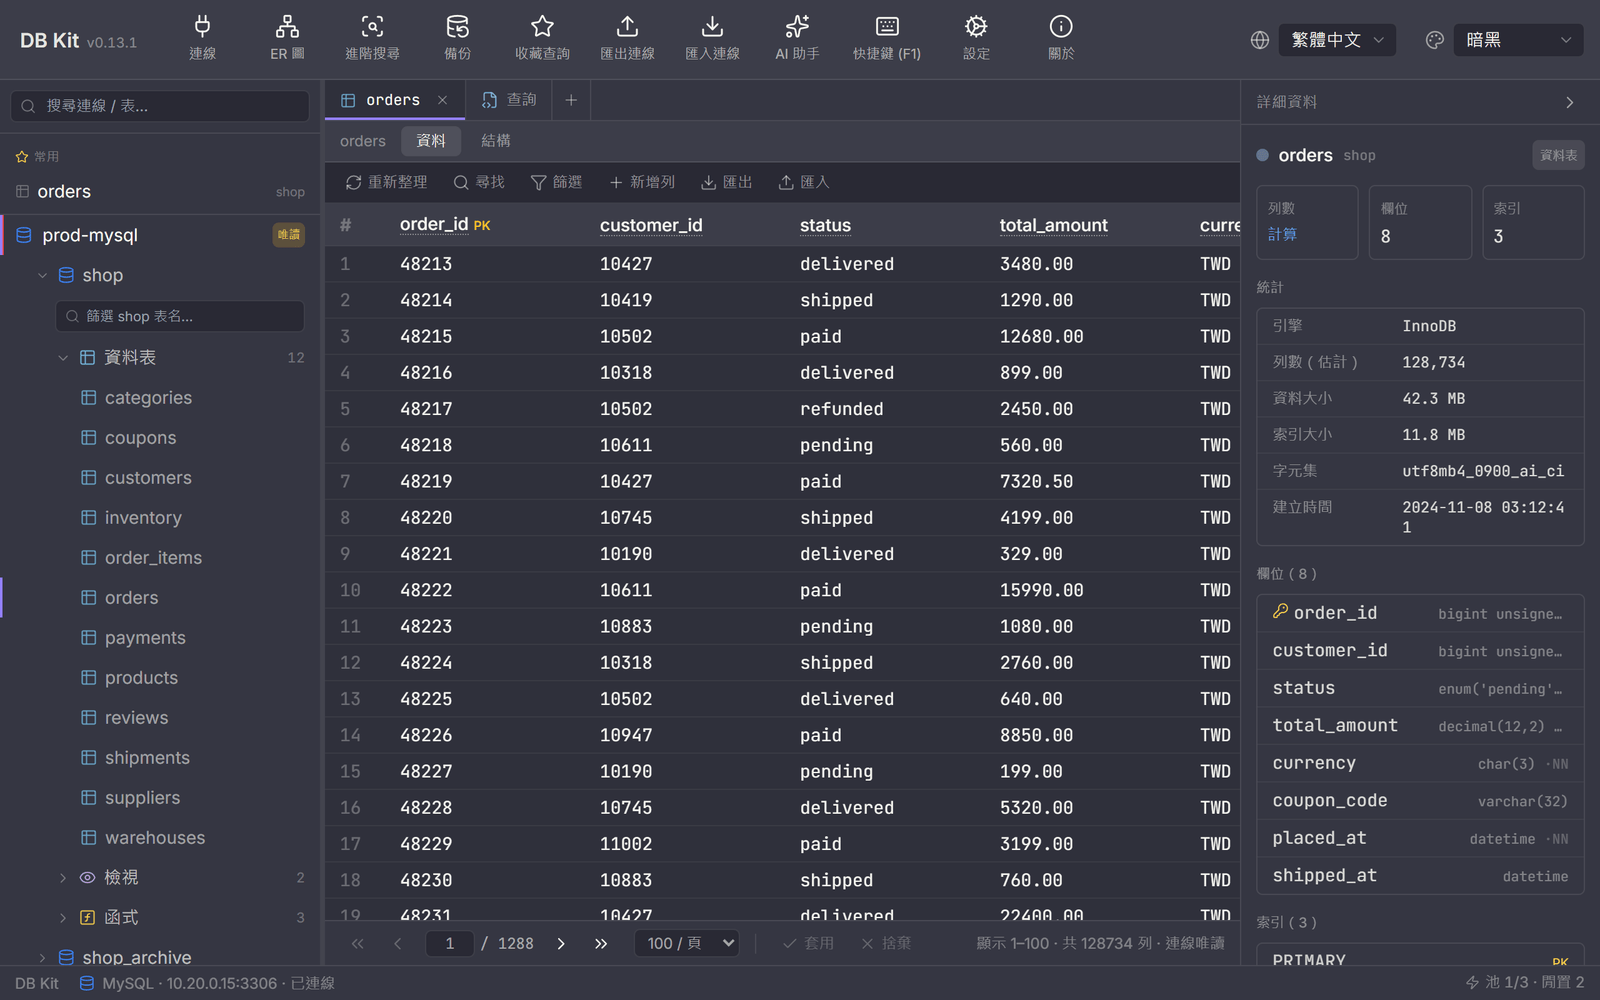
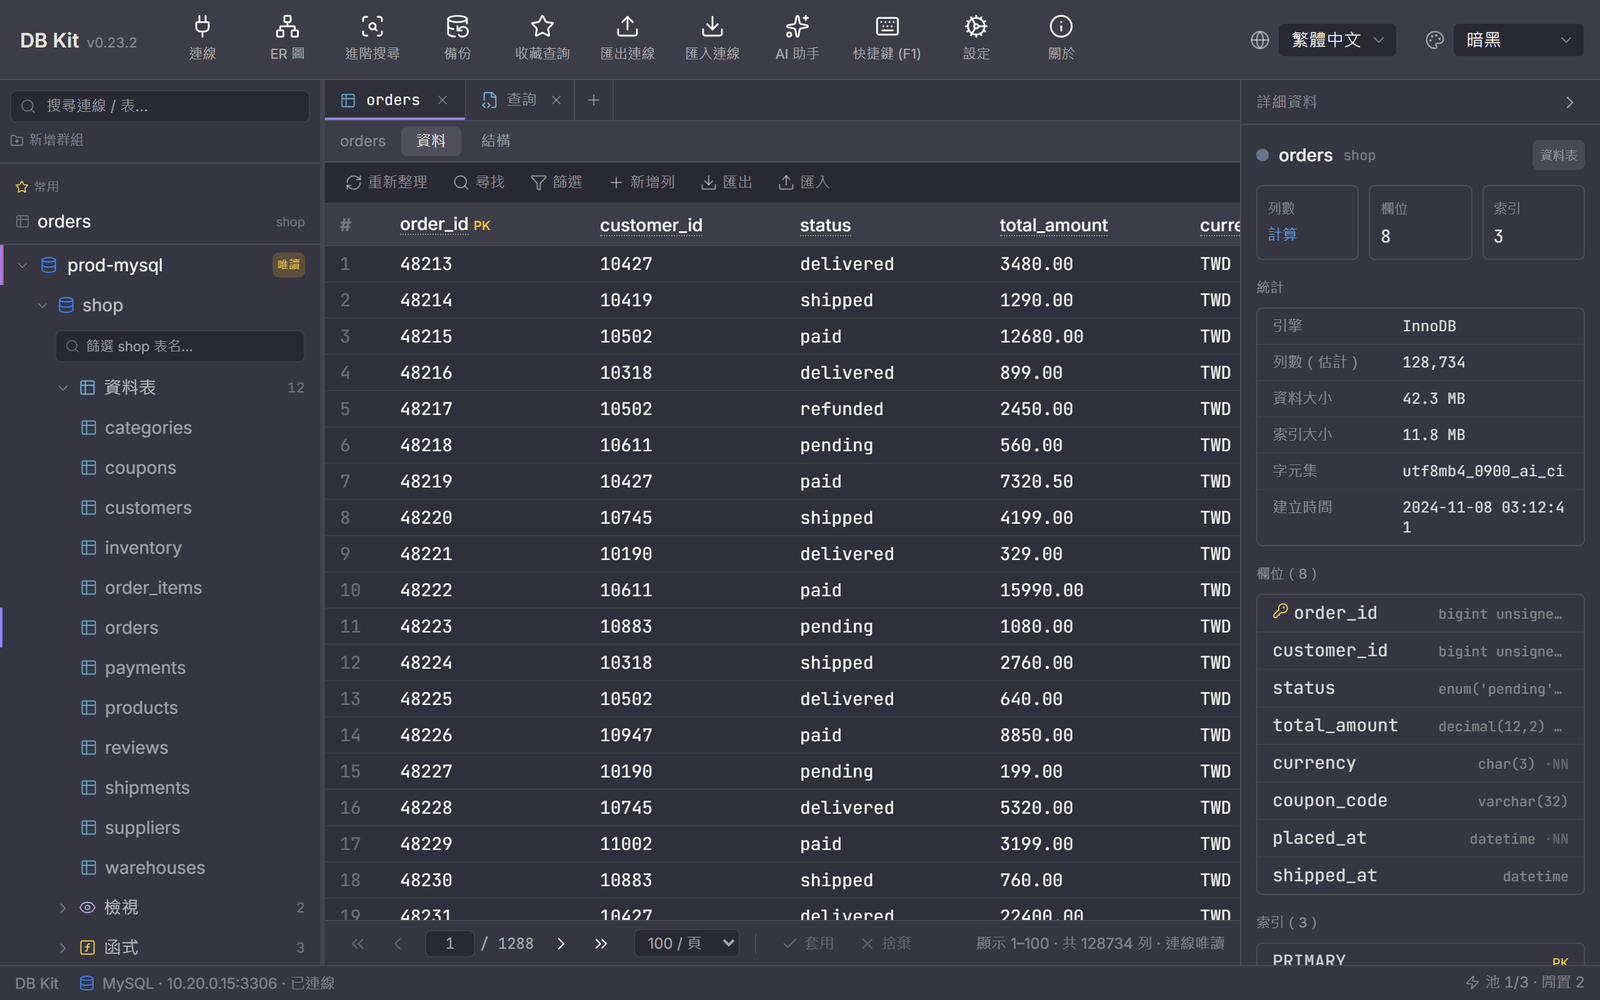
docs: 新增執行預存程序引數表單截圖，其餘重拍對齊現行 UI
新增 09-routine-exec.png（README 中英版皆加一段說明）：右鍵程序 →「執行程序…」的
引數表單，含 IN / OUT 方向、型別、以及下方即時產生的 SQL——正好把 OUT 走 session
變數三段式的結果攤出來看。

ROUTINES fixture 補上 signature。原本一律 null，那在新的 UI 語意下代表「無引數」，
拍出來會是一個空表單——而 null 正是這次修掉的 bug 本身的樣子。

其餘六張重拍：內容沒有實質變化，只是對齊現行 build（前次拍攝在 0.20 年代）。

截圖腳本本身不變更任何相依：playwright 仍非 db-kit 的 devDependency，
以 DBKIT_CHROME 借用現成 chromium 即可產圖。

Changed region(s): [[0.0, 0.124, 0.125, 0.961], [0.1562, 0.217, 0.1875, 0.279]]

diff --git a/README.en.md b/README.en.md
@@ -83,6 +83,12 @@ One codebase, one consistent experience, shipping **native desktop apps for Wind
   <img src="docs/screenshots/08-sql-review.png" alt="SQL review" width="860">
 </p>
 
+**Run a stored procedure** — right-click a routine → "Run procedure…" for one field per argument: mode (IN / OUT / INOUT), name and type come from the screen, quoting follows the type, and a blank field means `NULL`. OUT arguments are wired through session variables and read back automatically. The SQL being sent is always shown below; tick "Edit SQL" to hand-edit it when you need an expression:
+
+<p align="center">
+  <img src="docs/screenshots/09-routine-exec.png" alt="Stored procedure argument form" width="860">
+</p>
+
 ## Download & install
 
 <p align="center">

diff --git a/README.md b/README.md
@@ -82,6 +82,12 @@
   <img src="docs/screenshots/08-sql-review.png" alt="SQL 審查" width="860">
 </p>
 
+**執行預存程序** — 右鍵程序 →「執行程序…」，一格一引數：方向（IN / OUT / INOUT）、名稱、型別由畫面給，引號由型別決定，留空即 `NULL`。OUT 引數走 session 變數自動接回值。送出的 SQL 一律攤在下方，需要運算式時勾「編輯 SQL」直接改：
+
+<p align="center">
+  <img src="docs/screenshots/09-routine-exec.png" alt="執行預存程序的引數表單" width="860">
+</p>
+
 ## 下載安裝
 
 <p align="center">
